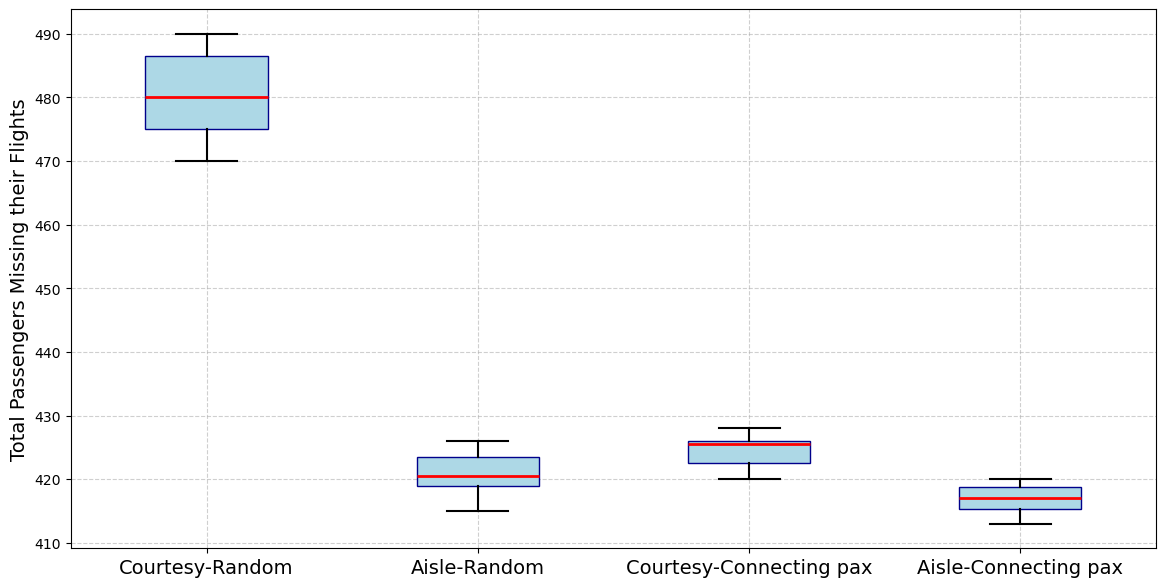
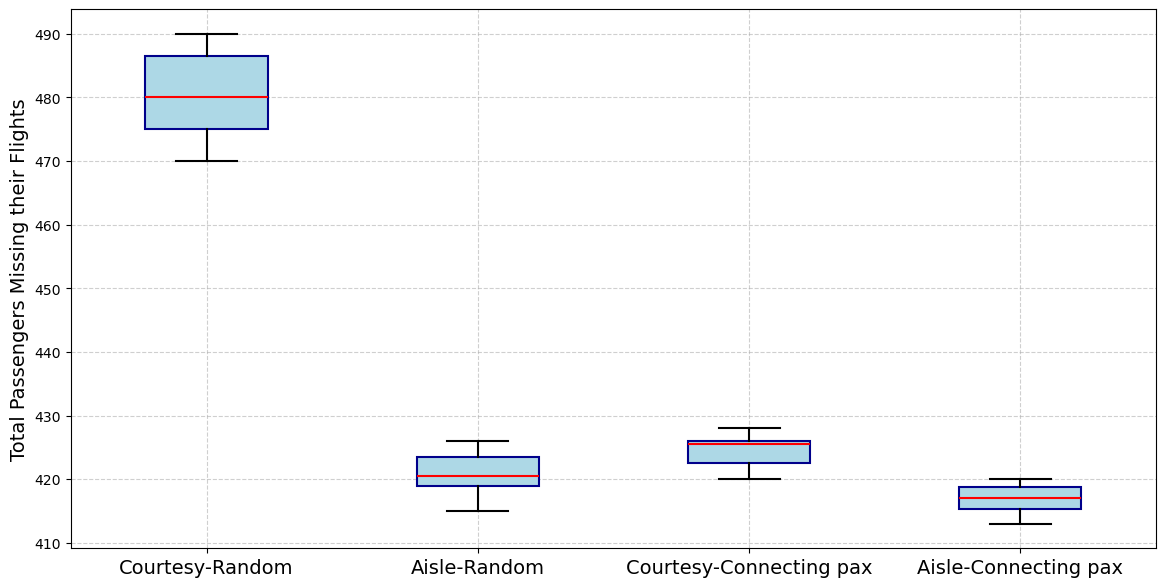
improve figures and add box plot deboarding time

diff --git a/plot_results.py b/plot_results.py
@@ -1,9 +1,9 @@
+import os
+
 import matplotlib.pyplot as plt
 import pandas as pd
-import os
-import json
-import numpy as np
 
+# DAY_LABEL = "max_delay_day"
 DAY_LABEL = "max_flight_day"
 
 RESULT_FOLDER = f"results/{DAY_LABEL}/10_simulations_20_pct_prereserved_3h_connecting_time/"
@@ -35,8 +35,8 @@ def display_missed_pax_strategies(savefig=False):
     fig, ax = plt.subplots(figsize=(14, 7))
 
     ax.boxplot(y_missed_pax.values(), patch_artist=True,
-               boxprops=dict(facecolor='lightblue', color='darkblue'),
-               medianprops=dict(color='red', linewidth=2),
+               boxprops=dict(facecolor='lightblue', color='darkblue',linewidth=1.5),
+               medianprops=dict(color='red', linewidth=1.5),
                whiskerprops=dict(color='black', linewidth=1.5),
                capprops=dict(color='black', linewidth=1.5))
 
@@ -60,38 +60,40 @@ def display_boxplot_deboarding_time(savefig=False):
     for csv_file in files:
         df = pd.read_csv(RESULT_FOLDER + csv_file)
         indexes = df[['Seat Allocation', 'Deboarding Strategy']].agg('-'.join, axis=1).values
-        values_missed_pax = df['Average Deboarding Time'].values
+        values_missed_pax = df['List Deboarding Time'].apply(lambda x: eval(x)).values
         if len(y_missed_pax) == 0:
-            y_missed_pax = dict(zip(indexes, [[e] for e in values_missed_pax]))
+            y_missed_pax = dict(zip(indexes, [e for e in values_missed_pax]))
         else:
             for i in range(len(indexes)):
-                y_missed_pax[indexes[i]].append(df['Average Deboarding Time'].values[i])
+                y_missed_pax[indexes[i]] += values_missed_pax[i]
 
+    # New color palette
+    colors = ['darkturquoise', 'blue', 'black', 'blue']  # Improved color palette
     fig, ax = plt.subplots(figsize=(14, 7))
-
     ax.boxplot(y_missed_pax.values(), patch_artist=True,
-               boxprops=dict(facecolor='lightblue', color='darkblue'),
-               medianprops=dict(color='red', linewidth=2),
-               whiskerprops=dict(color='black', linewidth=1.5),
-               capprops=dict(color='black', linewidth=1.5))
+               boxprops=dict(facecolor=colors[0], color=colors[1], linewidth=2),
+               medianprops=dict(color=colors[2], linewidth=2),
+               whiskerprops=dict(color=colors[3], linewidth=2),
+               capprops=dict(color=colors[3], linewidth=2))
 
     x_tick_labels = ["Courtesy-Random", "Aisle-Random", "Courtesy-Connecting pax", "Aisle-Connecting pax"]
-    # Rotate x-tick labels to fit
     ax.set_xticklabels(x_tick_labels, fontsize=14)
 
     ax.set_ylabel('Average Deboarding Time', fontsize=14)
     ax.grid(True, linestyle='--', alpha=0.6)
 
     if savefig:
-        plt.savefig(f"medias/boxplot/{DAY_LABEL}_missed_pax_.png", bbox_inches='tight')
+        plt.savefig(f"medias/boxplot/{DAY_LABEL}_deboarding_time.png", bbox_inches='tight')
     else:
         plt.show()
+
 
 
 def display_deboarding_time_bar(savefig=False):
     files = get_all_files_in_folder(RESULT_FOLDER)
     y_deboarding_time = {}
 
+    # Extracting the deboarding time data
     for csv_file in files:
         df = pd.read_csv(RESULT_FOLDER + csv_file)
         indexes = df[['Seat Allocation', 'Deboarding Strategy']].agg('-'.join, axis=1).values
@@ -101,30 +103,38 @@ def display_deboarding_time_bar(savefig=False):
         else:
             for i in range(len(indexes)):
                 y_deboarding_time[indexes[i]] += df['Average Deboarding Time'].values[i]
-    print(y_deboarding_time)
 
+    # Calculate the average deboarding time
     for key in y_deboarding_time.keys():
-        y_deboarding_time[key]/= len(files)
+        y_deboarding_time[key] /= len(files)
 
+    # Plotting the improved bar plot
     fig, ax = plt.subplots(figsize=(14, 7))
-    ax.bar(y_deboarding_time.keys(), y_deboarding_time.values(), color='darkblue', alpha=0.6)
+
+    # Using a gradient color for the bars
+    ax.bar(y_deboarding_time.keys(), y_deboarding_time.values(), color="darkturquoise")
+
+
+
+    # Adding a grid and improving axis labels
+    ax.set_ylabel('Passenger Deboarding Time (seconds)', fontsize=14, weight='bold')
 
     x_tick_labels = ["Courtesy-Random", "Aisle-Random", "Courtesy-Connecting pax", "Aisle-Connecting pax"]
     ax.set_xticklabels(x_tick_labels, fontsize=14)
-
-    ax.set_ylabel('Average Deboarding Time (seconds)', fontsize=14)
     ax.grid(True, linestyle='--', alpha=0.6)
 
+    # Setting tighter layout to fit labels
     plt.tight_layout()
+
+    # Save or display the plot
     if savefig:
         plt.savefig(f"medias/barplot/{DAY_LABEL}_deboarding_time.png", bbox_inches='tight')
     else:
         plt.show()
 
 
-
 if __name__ == '__main__':
     display_missed_pax_strategies(savefig=True)
-    # display_boxplot_deboarding_time()
+    display_boxplot_deboarding_time(savefig=True)
     display_deboarding_time_bar(savefig=True)
     # display_deboarding_time_line()
